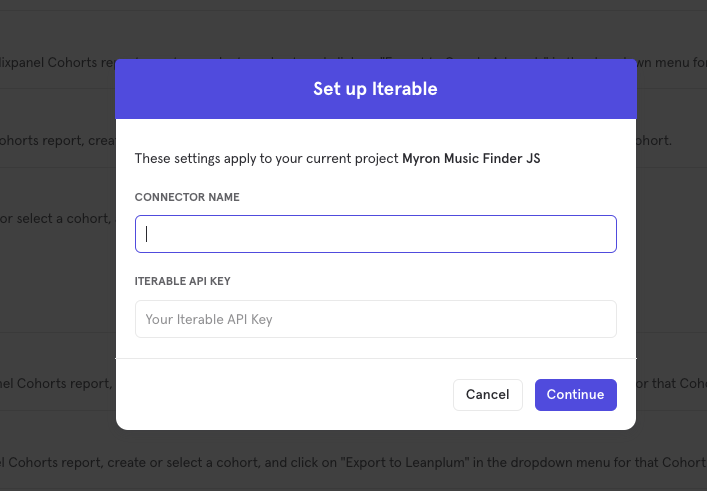
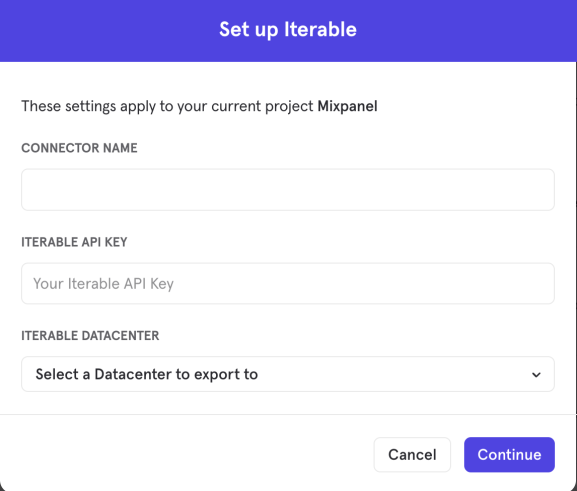
Update new iterable flow image (#1042)
* Update new iterable flow image

* resize image

* Update documentation

diff --git a/pages/docs/cohort-sync/integrations/iterable.md b/pages/docs/cohort-sync/integrations/iterable.md
@@ -21,6 +21,8 @@ From the Integrations page, select the Insider dropdown, and select **Connect**.
 
 The Iterable integration page will show a green export icon and details about the integration after it is connected.
 
+If you select the US or EU Iterable data center, data will be sent to the corresponding Iterable project. Note: Every Iterable API key is associated with a specific Iterable project, which means that it's also associated with a specific data center. Further reading: https://support.iterable.com/hc/en-us/articles/360043464871-API-Keys#api-keys-projects-and-data-centers
+
 To disable the connector, select the Iterable dropdown and click **Disconnect**.
 
 ## Export a Cohort
